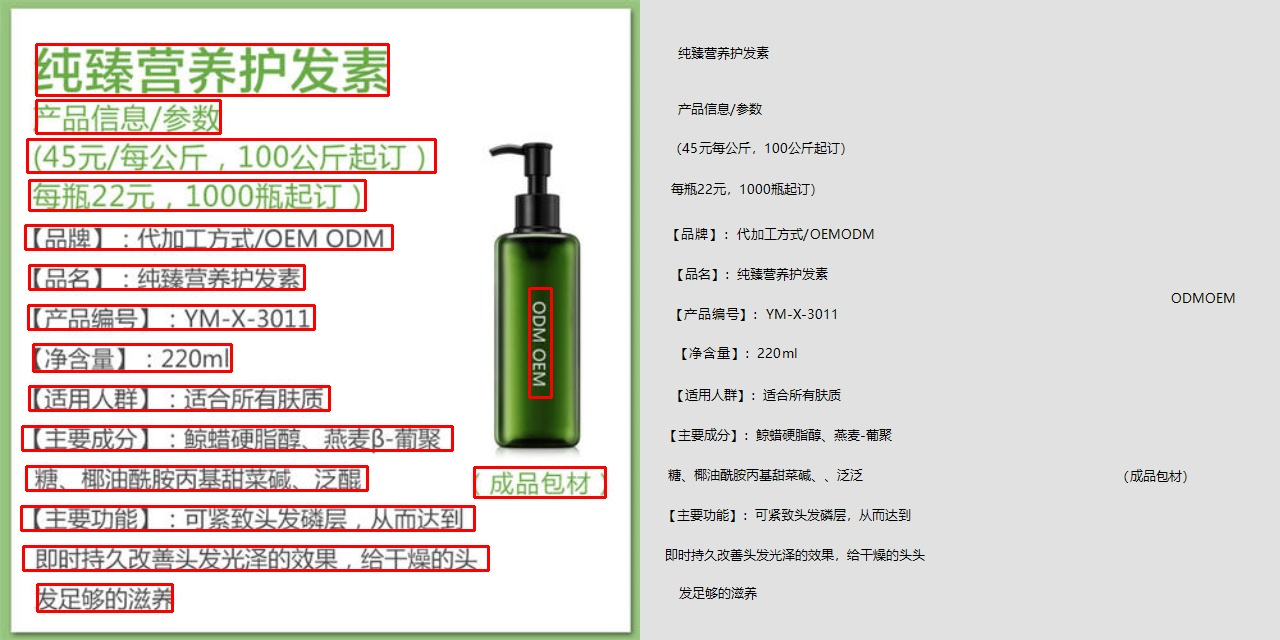
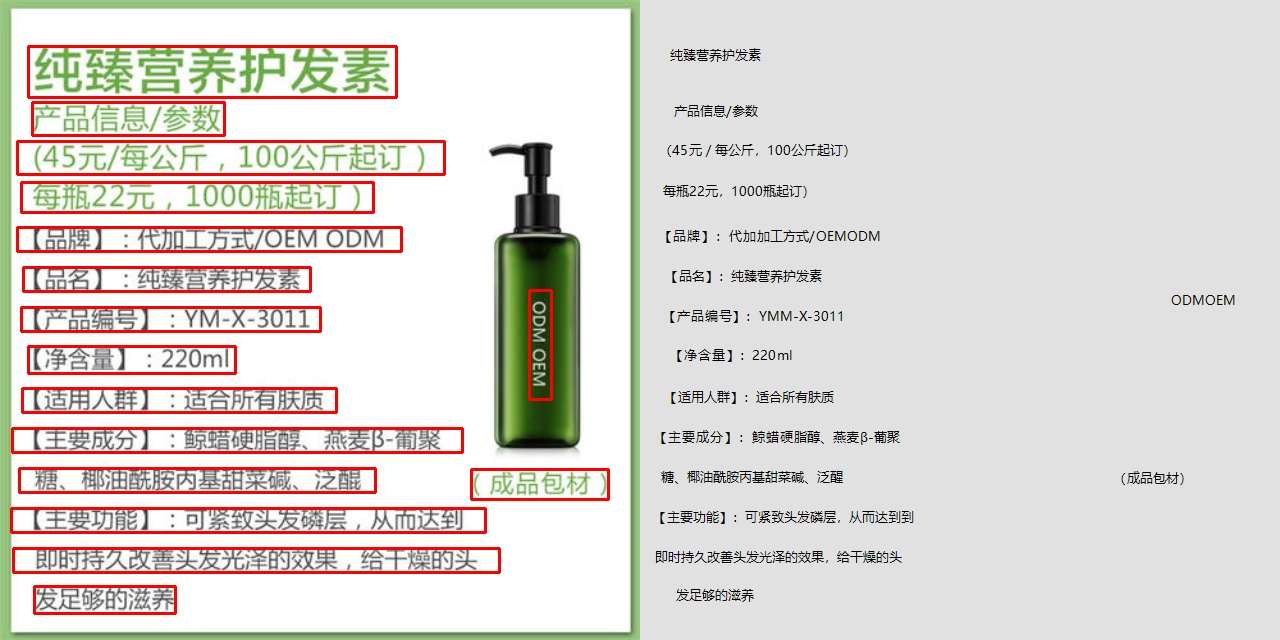
测试

diff --git a/PaddleOCR文字识别/Program.cs b/PaddleOCR文字识别/Program.cs
@@ -8,7 +8,7 @@ namespace OpenVinoSharpPaddleOCR
         static void Main(string[] args)
         {
             // 测试图片路径
-            string image_path = @"E:\Git_space\基于Csharp和OpenVINO部署PaddleOCR模型\image\demo_1.jpg";
+            string image_path = @"E:\Git_space\基于Csharp和OpenVINO部署PaddleOCR模型\image\demo_3.jpg";
             Mat image = Cv2.ImRead(image_path);
             Cv2.ImShow("image", image);
 
@@ -18,14 +18,13 @@ namespace OpenVinoSharpPaddleOCR
 
             //*******************1.加载模型相关信息****************//
             // 模型相关参数
-            // paddle
-            // IR
-            // 模型路径
-            string model_file_path_det = @"D:\model\det_server_paddle\inference.pdmodel";
-            // 模型输入节点
-            string input_node_name_det = "x";
-            // 模型输出节点
-            string output_node_name_det = "save_infer_model/scale_0.tmp_1";
+            //// paddle
+            //// 模型路径
+            //string model_file_path_det = @"D:\model\det_server_paddle\inference.pdmodel";
+            //// 模型输入节点
+            //string input_node_name_det = "x";
+            //// 模型输出节点
+            //string output_node_name_det = "save_infer_model/scale_0.tmp_1";
 
             //// ONNX
             //// 模型路径
@@ -35,13 +34,13 @@ namespace OpenVinoSharpPaddleOCR
             //// 模型输出节点
             //string output_node_name_det = "save_infer_model/scale_0.tmp_1";
 
-            //// IR
-            //// 模型路径
-            //string model_file_path_det = @"D:\model\det_server_ir\model.xml";
-            //// 模型输入节点
-            //string input_node_name_det = "x";
-            //// 模型输出节点
-            //string output_node_name_det = "save_infer_model/scale_0.tmp_1";
+            // IR
+            // 模型路径
+            string model_file_path_det = @"D:\model\det_server_ir\model.xml";
+            // 模型输入节点
+            string input_node_name_det = "x";
+            // 模型输出节点
+            string output_node_name_det = "save_infer_model/scale_0.tmp_1";
 
 
             // 设备名
@@ -82,7 +81,7 @@ namespace OpenVinoSharpPaddleOCR
             // 重构结果图像
             Mat image_det = new Mat(640, 640, MatType.CV_8UC1, result_det_byte);
             Cv2.ImShow("image_det", image_det);
-            // 查找文字区域狂
+            // 查找文字区域框
             Rect[] text_rects = find_rect(image_det);
 
             Mat image_rect = image.Clone();
@@ -90,7 +89,6 @@ namespace OpenVinoSharpPaddleOCR
             //裁剪文字区域
             Mat[] text_images = cut_image_roi(image_rect, text_rects);
             // 将文字区域标注出来
-
             for (int r = 0; r < text_rects.Length; r++)
             {
                 Cv2.Rectangle(image_rect, text_rects[r], new Scalar(0, 0, 255), 2);
@@ -111,7 +109,7 @@ namespace OpenVinoSharpPaddleOCR
             //// 模型输出节点
             //string output_node_name_rec = "save_infer_model/scale_0.tmp_1";
 
-            // ONNX
+            //// ONNX
             //// 模型路径
             //string model_file_path_rec = @"D:\model\rec_server_onnx\model.onnx";
             //// 模型输入节点
@@ -119,14 +117,14 @@ namespace OpenVinoSharpPaddleOCR
             //// 模型输出节点
             //string output_node_name_rec = "save_infer_model/scale_0.tmp_1";
 
-            ////IR
-            //// 模型相关参数
-            //// 模型路径
-            //string model_file_path_rec = @"D:\model\rec_server_ir\model.xml";
-            //// 模型输入节点
-            //string input_node_name_rec = "x";
-            //// 模型输出节点
-            //string output_node_name_rec = "save_infer_model/scale_0.tmp_1";
+            //IR
+            // 模型相关参数
+            // 模型路径
+            string model_file_path_rec = @"D:\model\rec_server_ir\model.xml";
+            // 模型输入节点
+            string input_node_name_rec = "x";
+            // 模型输出节点
+            string output_node_name_rec = "save_infer_model/scale_0.tmp_1";
 
             // 字符字典
             string dict_path = @"E:\Git_space\基于Csharp和OpenVINO部署PaddleOCR模型\model\ppocr_keys_v1.txt";
@@ -141,8 +139,7 @@ namespace OpenVinoSharpPaddleOCR
             string[] texts = new string[text_images.Length]; 
             for (int epoch = 0; epoch < text_images.Length; epoch++)
             {
-                Console.WriteLine(epoch);
-
+                
                 //*****************3.1 调整推理图片形状**************//
                 Mat text_image = text_images[epoch].Clone();
                 text_image = adjust_image_size(text_image);
@@ -171,6 +168,7 @@ namespace OpenVinoSharpPaddleOCR
                 //*******************3.6 处理文字内容识别结果****************//
                 string text = process_rec_result(result_rec, text_size, dicts);
                 texts[epoch] = text;
+                Console.WriteLine(text);
 
             }
 
@@ -201,28 +199,28 @@ namespace OpenVinoSharpPaddleOCR
         /// 获取文字区域的矩形框信息
         /// </summary>
         /// <param name="source_image">图片</param>
-        /// <returns></returns>
+        /// <returns>矩形框</returns>
         public static Rect[] find_rect(Mat source_image)
         {
             Mat image = source_image.Clone();
-            //中值滤波或腐蚀去除噪点
+            //中值滤波或腐蚀去除很小的点
             Cv2.MedianBlur(image, image, 3);
             Mat element = Cv2.GetStructuringElement(MorphShapes.Rect, new Size(1, 1), new Point(-1, -1));
             Cv2.Erode(image, image, element, new Point(-1, -1), 1, BorderTypes.Default, new Scalar());
-            //Cv2.ImShow("erode", diff);
             Mat element2 = Cv2.GetStructuringElement(MorphShapes.Rect, new Size(2, 2), new Point(-1, -1));
             Cv2.Dilate(image, image, element2, new Point(-1, -1), 1, BorderTypes.Default, new Scalar());
-            //Cv2.ImShow("dilate", diff);
 
             Point[][] contours;
             HierarchyIndex[] hierarchy; //轮廓拓扑结构变量
-            Cv2.FindContours(image, out contours, out hierarchy, RetrievalModes.External, ContourApproximationModes.ApproxNone);
+            Cv2.FindContours(image, out contours, out hierarchy, RetrievalModes.External, 
+                ContourApproximationModes.ApproxNone);
 
             Rect[] rects = new Rect[contours.Length];
             for (int i = 0; i < contours.Length; i++)
             {
                 Rect rect = Cv2.BoundingRect(contours[i]);
                 rect = enlarge_rect(rect);
+                Console.WriteLine(rect);
                 rects[i] = rect;
             }
             return rects;
@@ -244,11 +242,11 @@ namespace OpenVinoSharpPaddleOCR
             {
                 if (rect.Width < 80)
                 {
-                    width = (int)((double)rect.Width * 1.5);
+                    width = (int)((double)rect.Width * 1.6);
                 }
                 else
                 {
-                    width = (int)((double)rect.Width * 1.1);
+                    width = (int)((double)rect.Width * 1.15);
                 }
                 height = (int)((double)rect.Height * 3);
             }
@@ -272,7 +270,7 @@ namespace OpenVinoSharpPaddleOCR
             }
             if (point.X + width / 2 > 640)
             {
-                width = width - (640 - point.X - width / 2) * 2;
+                width = width + (640 - point.X - width / 2) * 2;
             }
             if (point.Y - height / 2 < 0)
             {
@@ -280,10 +278,10 @@ namespace OpenVinoSharpPaddleOCR
             }
             if (point.Y + height / 2 > 640)
             {
-                height = height - (640 - point.Y - height / 2) * 2;
+                height = height + (640 - point.Y - height / 2) * 2;
             }
 
-            rect_temp = new Rect(point.X - width / 2 + 1, point.Y - height / 2 - 1, width - 2, height - 2);
+            rect_temp = new Rect(point.X - width / 2 + 1, point.Y - height / 2 + 1, width - 2, height - 2);
 
             return rect_temp;
         }
@@ -293,7 +291,7 @@ namespace OpenVinoSharpPaddleOCR
         /// </summary>
         /// <param name="source_image">原图片</param>
         /// <param name="rects">矩形区域数组</param>
-        /// <returns></returns>
+        /// <returns>文字区域mat</returns>
         public static Mat[] cut_image_roi(Mat source_image, Rect[] rects)
         {
             Mat image = source_image.Clone();
@@ -335,24 +333,25 @@ namespace OpenVinoSharpPaddleOCR
         /// <returns></returns>
         public static Mat adjust_image_size(Mat source_image)
         {
-            if (source_image.Width * 1.5 < source_image.Height) 
+            if (source_image.Width * 2 < source_image.Height) 
             {
                 Cv2.Transpose(source_image, source_image);
                 Cv2.Flip(source_image, source_image, 0);
             }
             int img_W = source_image.Width;
             int img_H = 32;
-            double scale_size = (double)img_W / (double)source_image.Height;
+            double scale_size = ((double)img_W*1.00) / (double)source_image.Height;
 
-            int max_W = (int)scale_size * 32;
+            int max_W = (int)(scale_size * 32);
             if (scale_size * img_H > max_W)
             {
                 img_W = max_W;
             }
             else
             {
-                img_W = (int)scale_size * img_H;
+                img_W = (int)(scale_size * img_H);
             }
+
             Cv2.Resize(source_image, source_image, new Size(img_W, img_H));
             return source_image;
         }
@@ -367,6 +366,7 @@ namespace OpenVinoSharpPaddleOCR
         {
             float[] confindences = new float[text_size];
             int[] indexs = new int[text_size];
+            int num = 0;
             for (int r = 0; r < text_size; r++)
             {
                 float[] temp = new float[6625];
@@ -376,25 +376,26 @@ namespace OpenVinoSharpPaddleOCR
                 }
                 int index = 1;
                 float max = max_index(temp, ref index);
-                indexs[r] = index;
-                confindences[r] = max;
+                if (index > 1 && index < 6624) {
+                    indexs[num] = index;
+                    confindences[num] = max;
+                    num++;
+                }
+
             }
             float aver_confindence = confindences.Average();
             List<string> list = new List<string>();
-            for (int r = 0; r < text_size; r++)
+            for (int r = 0; r < num; r++)
             {
-                if (indexs[r] > 1 && indexs[r] < 6624)
+                if (text_size < 20 && confindences[r] > 0)
                 {
-                    if (text_size < 20 && confindences[r] > 0)
+                    list.Add(dict[indexs[r] - 1]);
+                }
+                else
+                {
+                    if (confindences[r] > aver_confindence - 0.2)
                     {
                         list.Add(dict[indexs[r] - 1]);
-                    }
-                    else
-                    {
-                        if (confindences[r] > aver_confindence - 0.2)
-                        {
-                            list.Add(dict[indexs[r] - 1]);
-                        }
                     }
                 }
             }
